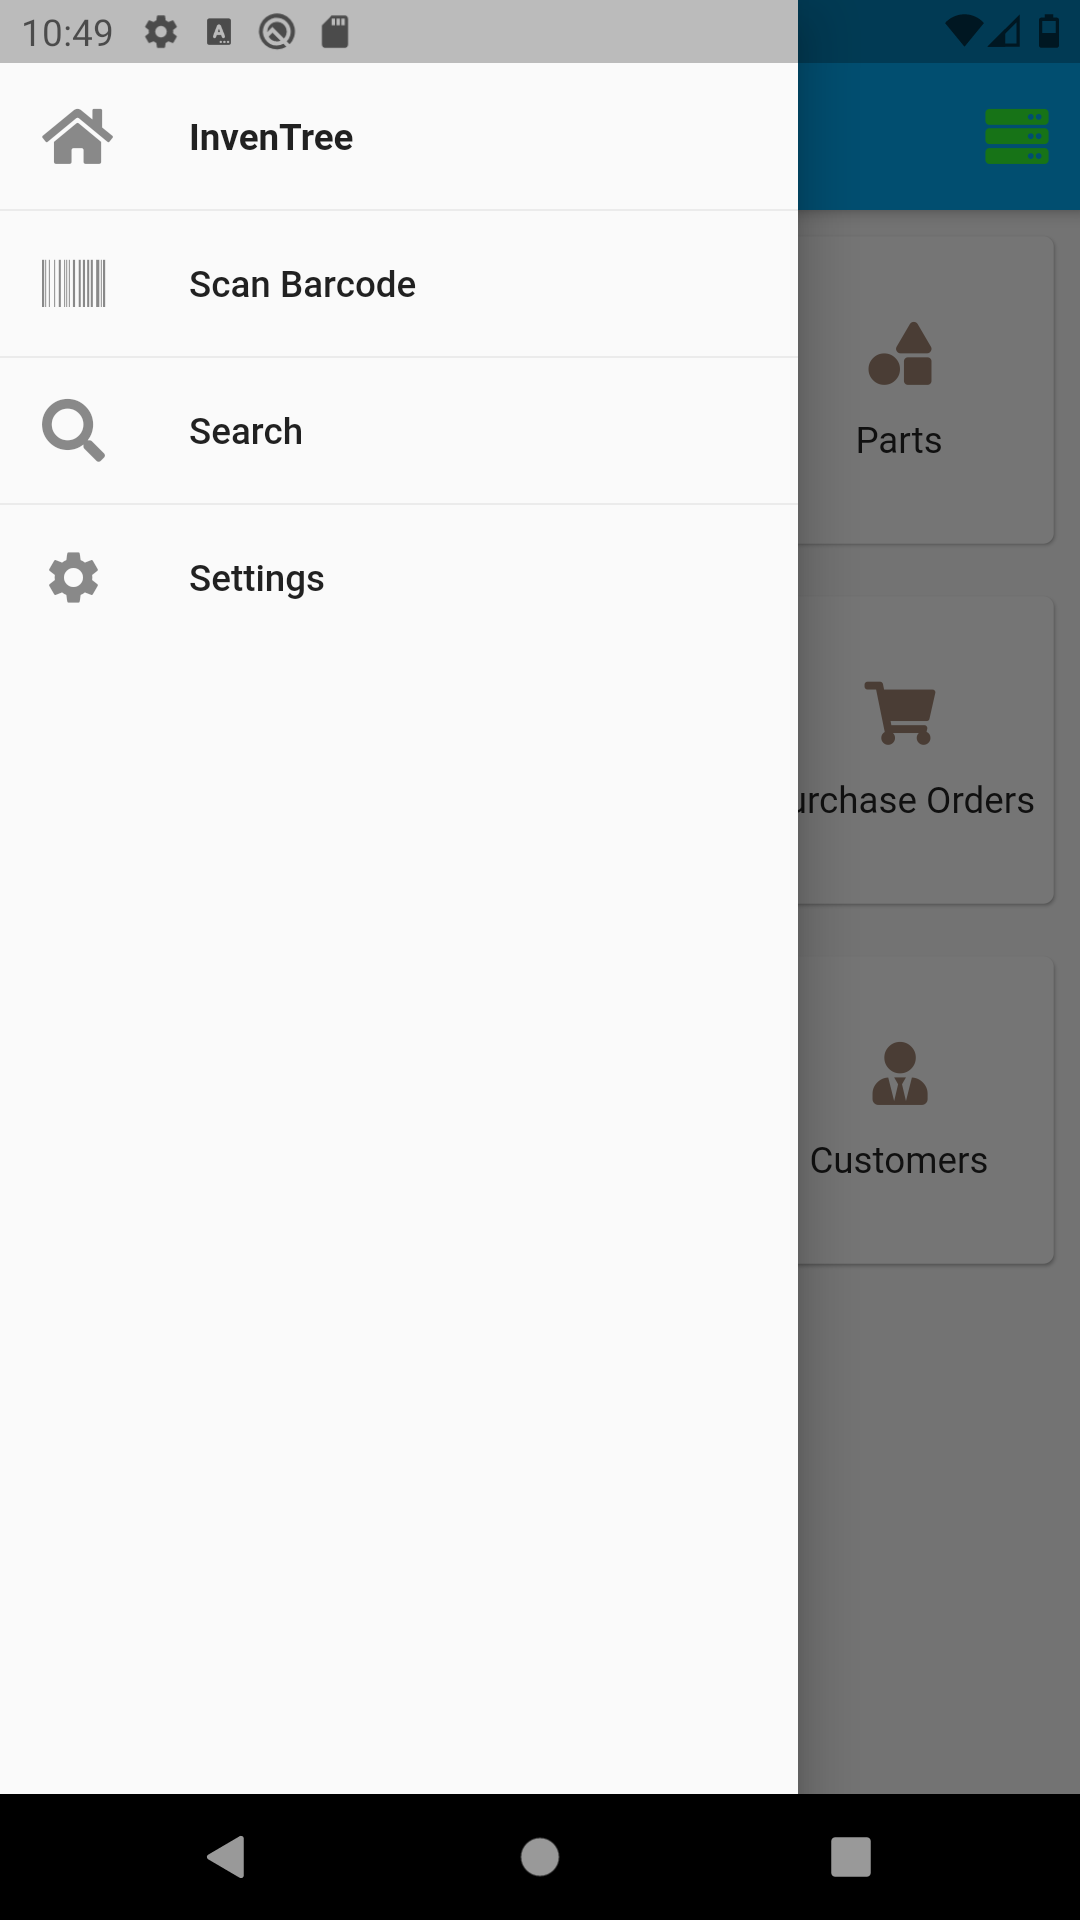
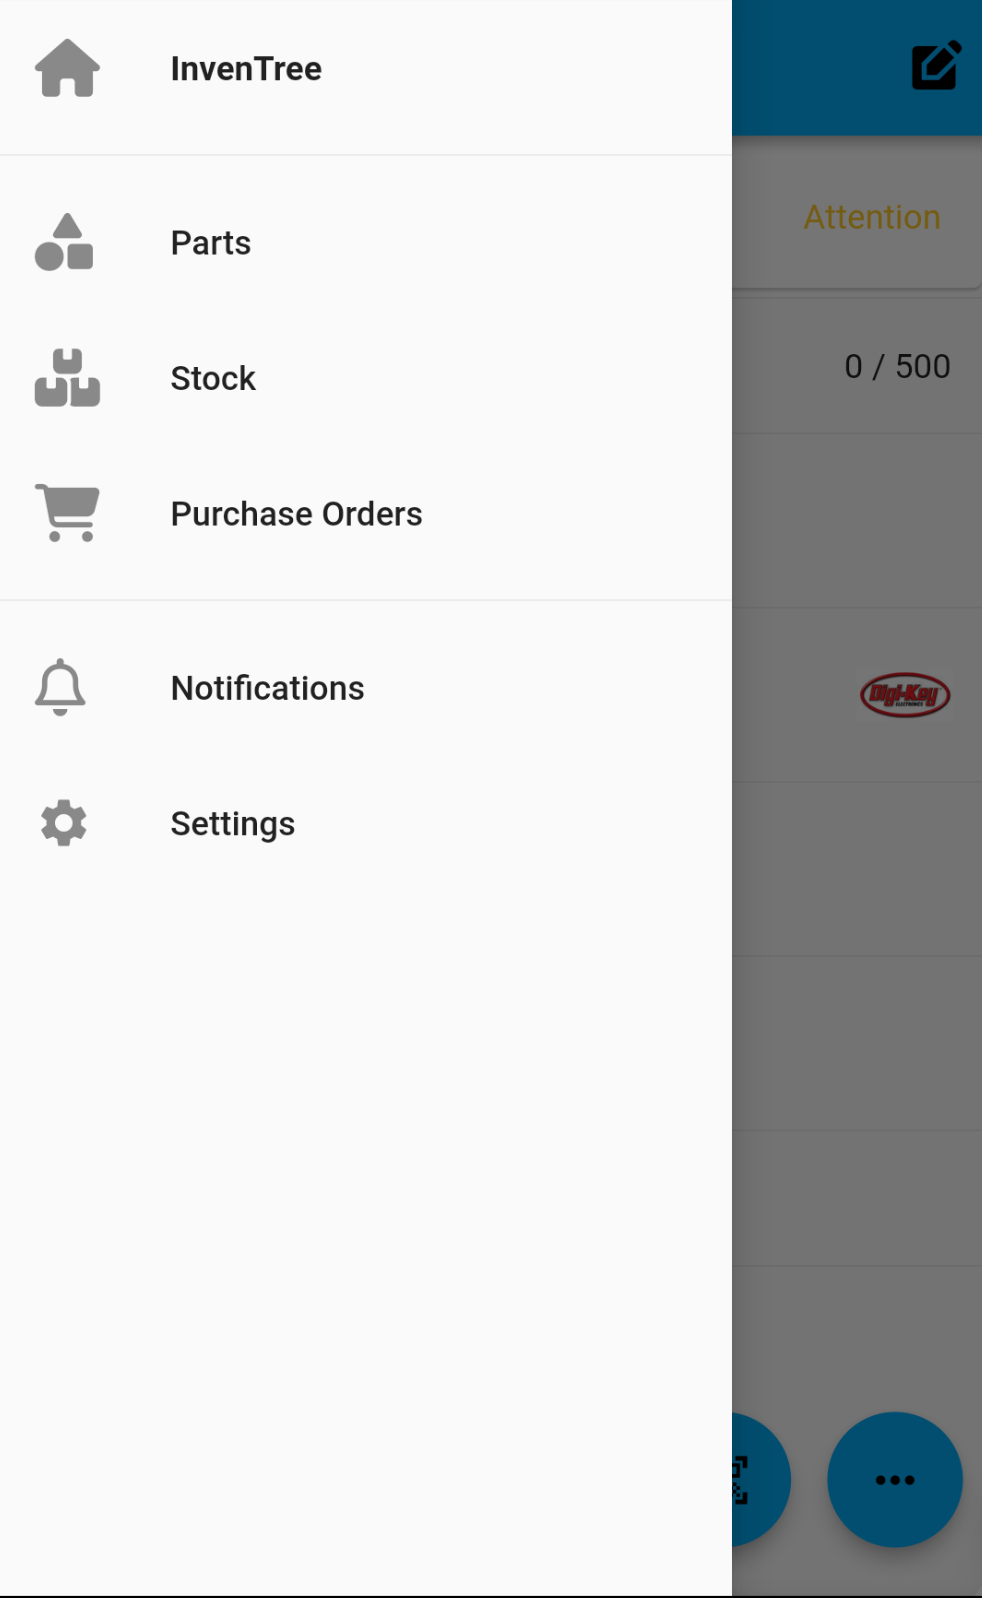
Updates

diff --git a/docs/app/navigation.md b/docs/app/navigation.md
@@ -2,3 +2,97 @@
 title: App Navigation
 ---
 
+
+## Home Screen
+
+The app *home screen* provides quick-access buttons for stock view and actions:
+
+{% with id="home", url="app/home.png", maxheight="240px", description="Home screen" %}
+{% include 'img.html' %}
+{% endwith %}
+
+### Scan Barcode
+
+Select the *Scan Barcode* icon to open the [barcode scanner](./barcode.md). Scan a barcode to navigate to a detail view for the item you have scanned.
+
+### Search
+
+Select the *Search* icon to open the InvenTree search window. Entering a search term will return multiple search results, as shown in the examples below:
+
+{% with id="search_1", url="app/search_1.png", maxheight="240px", description="Search results" %}
+{% include 'img.html' %}
+{% endwith %}
+
+{% with id="search_2", url="app/search_2.png", maxheight="240px", description="Search results" %}
+{% include 'img.html' %}
+{% endwith %}
+
+### Parts
+
+Select the *Parts* icon to open the [parts display](./part.md). This initially displays the top-level part category, showing information for parts and sub categories.
+
+### Starred Parts
+
+Selected the *Starred Parts* icon to show a list of parts you have personally marked as your "favorite" parts.
+
+### Stock
+
+Select the *Stock* icon to open the [stock display](./stock.md). This initially displays the top-level stock category, showing information for stock items and sub locations.
+
+### Purchase Orders
+
+Select the *Purchase Orders* icon to open the [purchase orders display](./po.md). This shows a list of currently outstanding purchase orders, allowing line items to be received into stock.
+
+### Settings
+
+Select the *Settings* icon to open the [settings display](./settings.md)
+
+## Tab Display
+
+Some screens provide multiple tabbed views, which are displayed at the top of the screen:
+
+{% with id="global_nav", url="app/app_tabs.png", maxheight="240px", description="App tabs" %}
+{% include 'img.html' %}
+{% endwith %}
+
+Tabs can be navigated by pressing on the text of each tab, or by scrolling the screen left or right.
+
+## Global Actions
+
+The *Global Action* buttons are visible on most screens, displayed in the bottom left corner of the screen:
+
+{% with id="global_nav", url="app/app_global_navigation.png", maxheight="240px", description="Global navigation actions" %}
+{% include 'img.html' %}
+{% endwith %}
+
+### Open Drawer Menu
+
+The <span class='fas fa-list'></span> action opens the *Drawer Menu*, which is a quick-access menu for global navigation:
+
+{% with id="drawer", url="app/drawer.png", maxheight="240px", description="Open drawer menu" %}
+{% include 'img.html' %}
+{% endwith %}
+
+The *Drawer Menu* can be accessed in the following ways:
+
+- From the *Home Screen* select the *Drawer* icon in the top-left corner of the screen
+- From any other screen, long-press the *Back* button in the top-left corner of the screen
+
+### Search
+
+The <span class='fas fa-search'></span> action opens the [Search](#search) screen
+
+### Scan Barcode
+
+The <span class='fas fa-qrcode'></span> action opens the [barcode scan](./barcode.md) window, which allows quick access to the barcode scanning functionality.
+
+## Context Actions
+
+Within a given view, certain context actions may be available. If there are contextual actions which can be performed, they are displayed in the bottom right corner:
+
+{% with id="drawer", url="app/context_actions.png", maxheight="240px", description="Context actions" %}
+{% include 'img.html' %}
+{% endwith %}
+
+!!! tip "Barcode Actions"
+    Available barcode actions are displayed in a separate context action menu 

diff --git a/docs/app/connect.md b/docs/app/connect.md
@@ -66,82 +66,3 @@ To edit the server profile details, long press on the server profile, and select
 {% with id="edit", url="app/edit_server.png", maxheight="240px", description="Edit server profile" %}
 {% include 'img.html' %}
 {% endwith %}
-
-## Home Screen
-
-The app *home screen* provides quick-access buttons for stock view and actions:
-
-{% with id="home", url="app/home.png", maxheight="240px", description="Home screen" %}
-{% include 'img.html' %}
-{% endwith %}
-
-### Scan Barcode
-
-Select the *Scan Barcode* icon to open the [barcode scanner](./barcode.md). Scan a barcode to navigate to a detail view for the item you have scanned.
-
-### Search
-
-Select the *Search* icon to open the InvenTree search window. Entering a search term will return multiple search results, as shown in the examples below:
-
-{% with id="search_1", url="app/search_1.png", maxheight="240px", description="Search results" %}
-{% include 'img.html' %}
-{% endwith %}
-
-{% with id="search_2", url="app/search_2.png", maxheight="240px", description="Search results" %}
-{% include 'img.html' %}
-{% endwith %}
-
-### Parts
-
-Select the *Parts* icon to open the [parts display](./part.md). This initially displays the top-level part category, showing information for parts and sub categories.
-
-### Starred Parts
-
-Selected the *Starred Parts* icon to show a list of parts you have personally marked as your "favorite" parts.
-
-### Stock
-
-Select the *Stock* icon to open the [stock display](./stock.md). This initially displays the top-level stock category, showing information for stock items and sub locations.
-
-### Purchase Orders
-
-Select the *Purchase Orders* icon to open the [purchase orders display](./po.md). This shows a list of currently outstanding purchase orders, allowing line items to be received into stock.
-
-### Settings
-
-Select the *Settings* icon to open the [settings display](./settings.md)
-
-## Drawer Menu
-
-The *Drawer Menu* is a quick-access menu which is accessible from most display screens:
-
-{% with id="drawer", url="app/drawer.png", maxheight="240px", description="Open drawer menu" %}
-{% include 'img.html' %}
-{% endwith %}
-
-The *Drawer Menu* can be accessed in the following ways:
-
-- From the *Home Screen* select the *Drawer* icon in the top-left corner of the screen
-- From any other screen, long-press the *Back* button in the top-left corner of the screen
-
-!!! tip "Long Press Menu"
-    Performing a "long press" on the *back* button will provide quick access to the drawer menu from any view
-
-The *Drawer Menu* provides instant access to the following actions:
-
-### InvenTree
-
-Select *InvenTree* to navigate to the [home screen](#home-screen).
-
-### Scan Barcode
-
-Select *Scan Barcode* to open the barcode scanner, and scan an InvenTree stock item or location to instantly jump to the relevant view. Refer to the [barcode documentation](./barcode.md) for more information.
-
-### Search
-
-Select *Search* to open a global search screen.
-
-### Settings
-
-Select *Settings* to navigate to the app [settings](./settings.md) menu.
-
